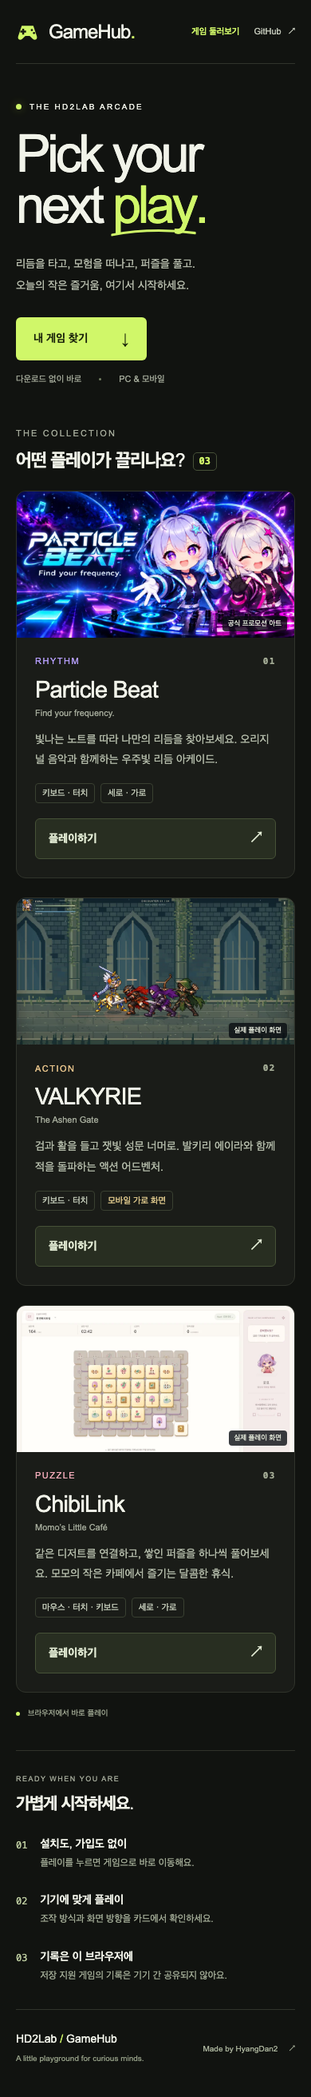
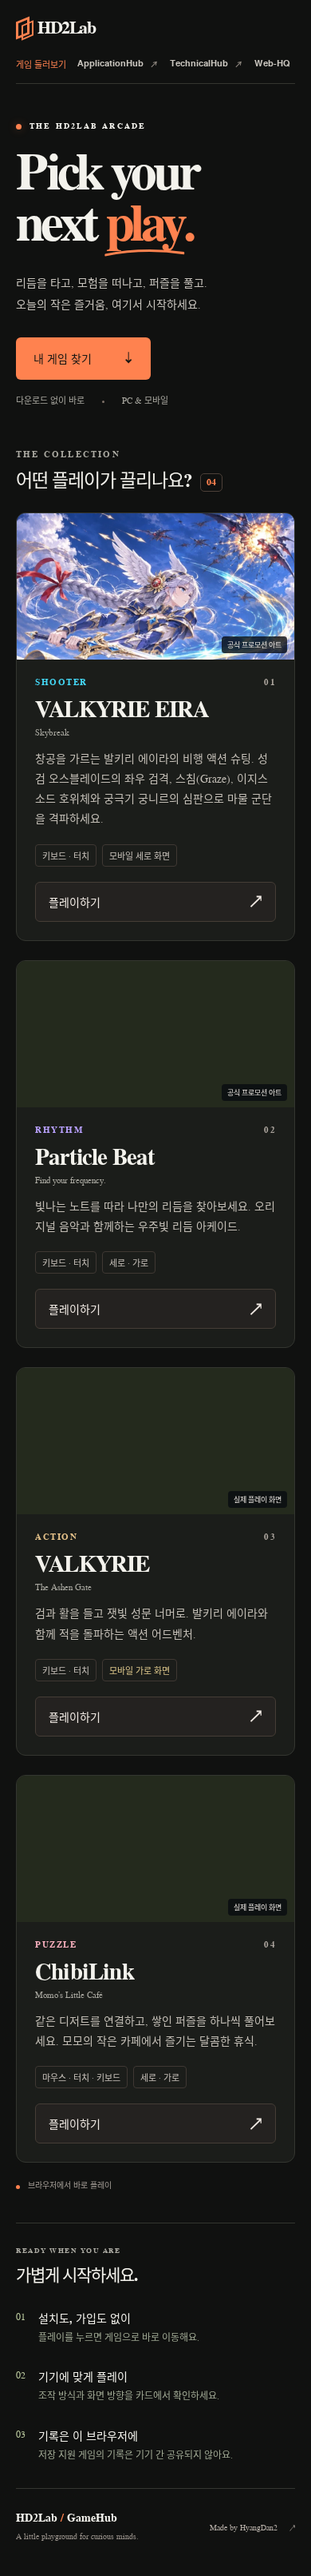
docs(qa): 브랜드 적용 후 검증 결과와 화면 증거 갱신

diff --git a/docs/QA.md b/docs/QA.md
@@ -45,3 +45,10 @@ Initial review date: 2026-10-20.
 - `npm run check:links` passed for all three published games (HTTP 200).
 - Browser layout coverage includes 360, 390, 768, and 1440 pixel widths; physical devices were not tested.
 - Production publication and hosted acceptance run through the Pages workflow for this release.
+
+## 2026-11-10 — HD2Lab brand alignment review
+
+- `npm run verify` passed on a fresh build: catalog/schema/assets/evidence validation (`Catalog valid: 4 games`), 7 deterministic tests, and 13 Chromium browser tests (the 12 existing checks plus a brand header, cross-hub link, and icon link check).
+- Visual review: full-page desktop (1440 px) and mobile (390 px) screenshots were retaken after the palette, mark, and navigation change. See [desktop](evidence/desktop.png) and [mobile](evidence/mobile.png).
+- Scope: markup, styles, favicons, share image, and hub links only. The game catalog, play destinations, storage behavior, and deployment workflow are unchanged.
+- Merge and hosted acceptance (`npm run verify:hosted`) are still pending; no claim is made about the deployed site in this review.
